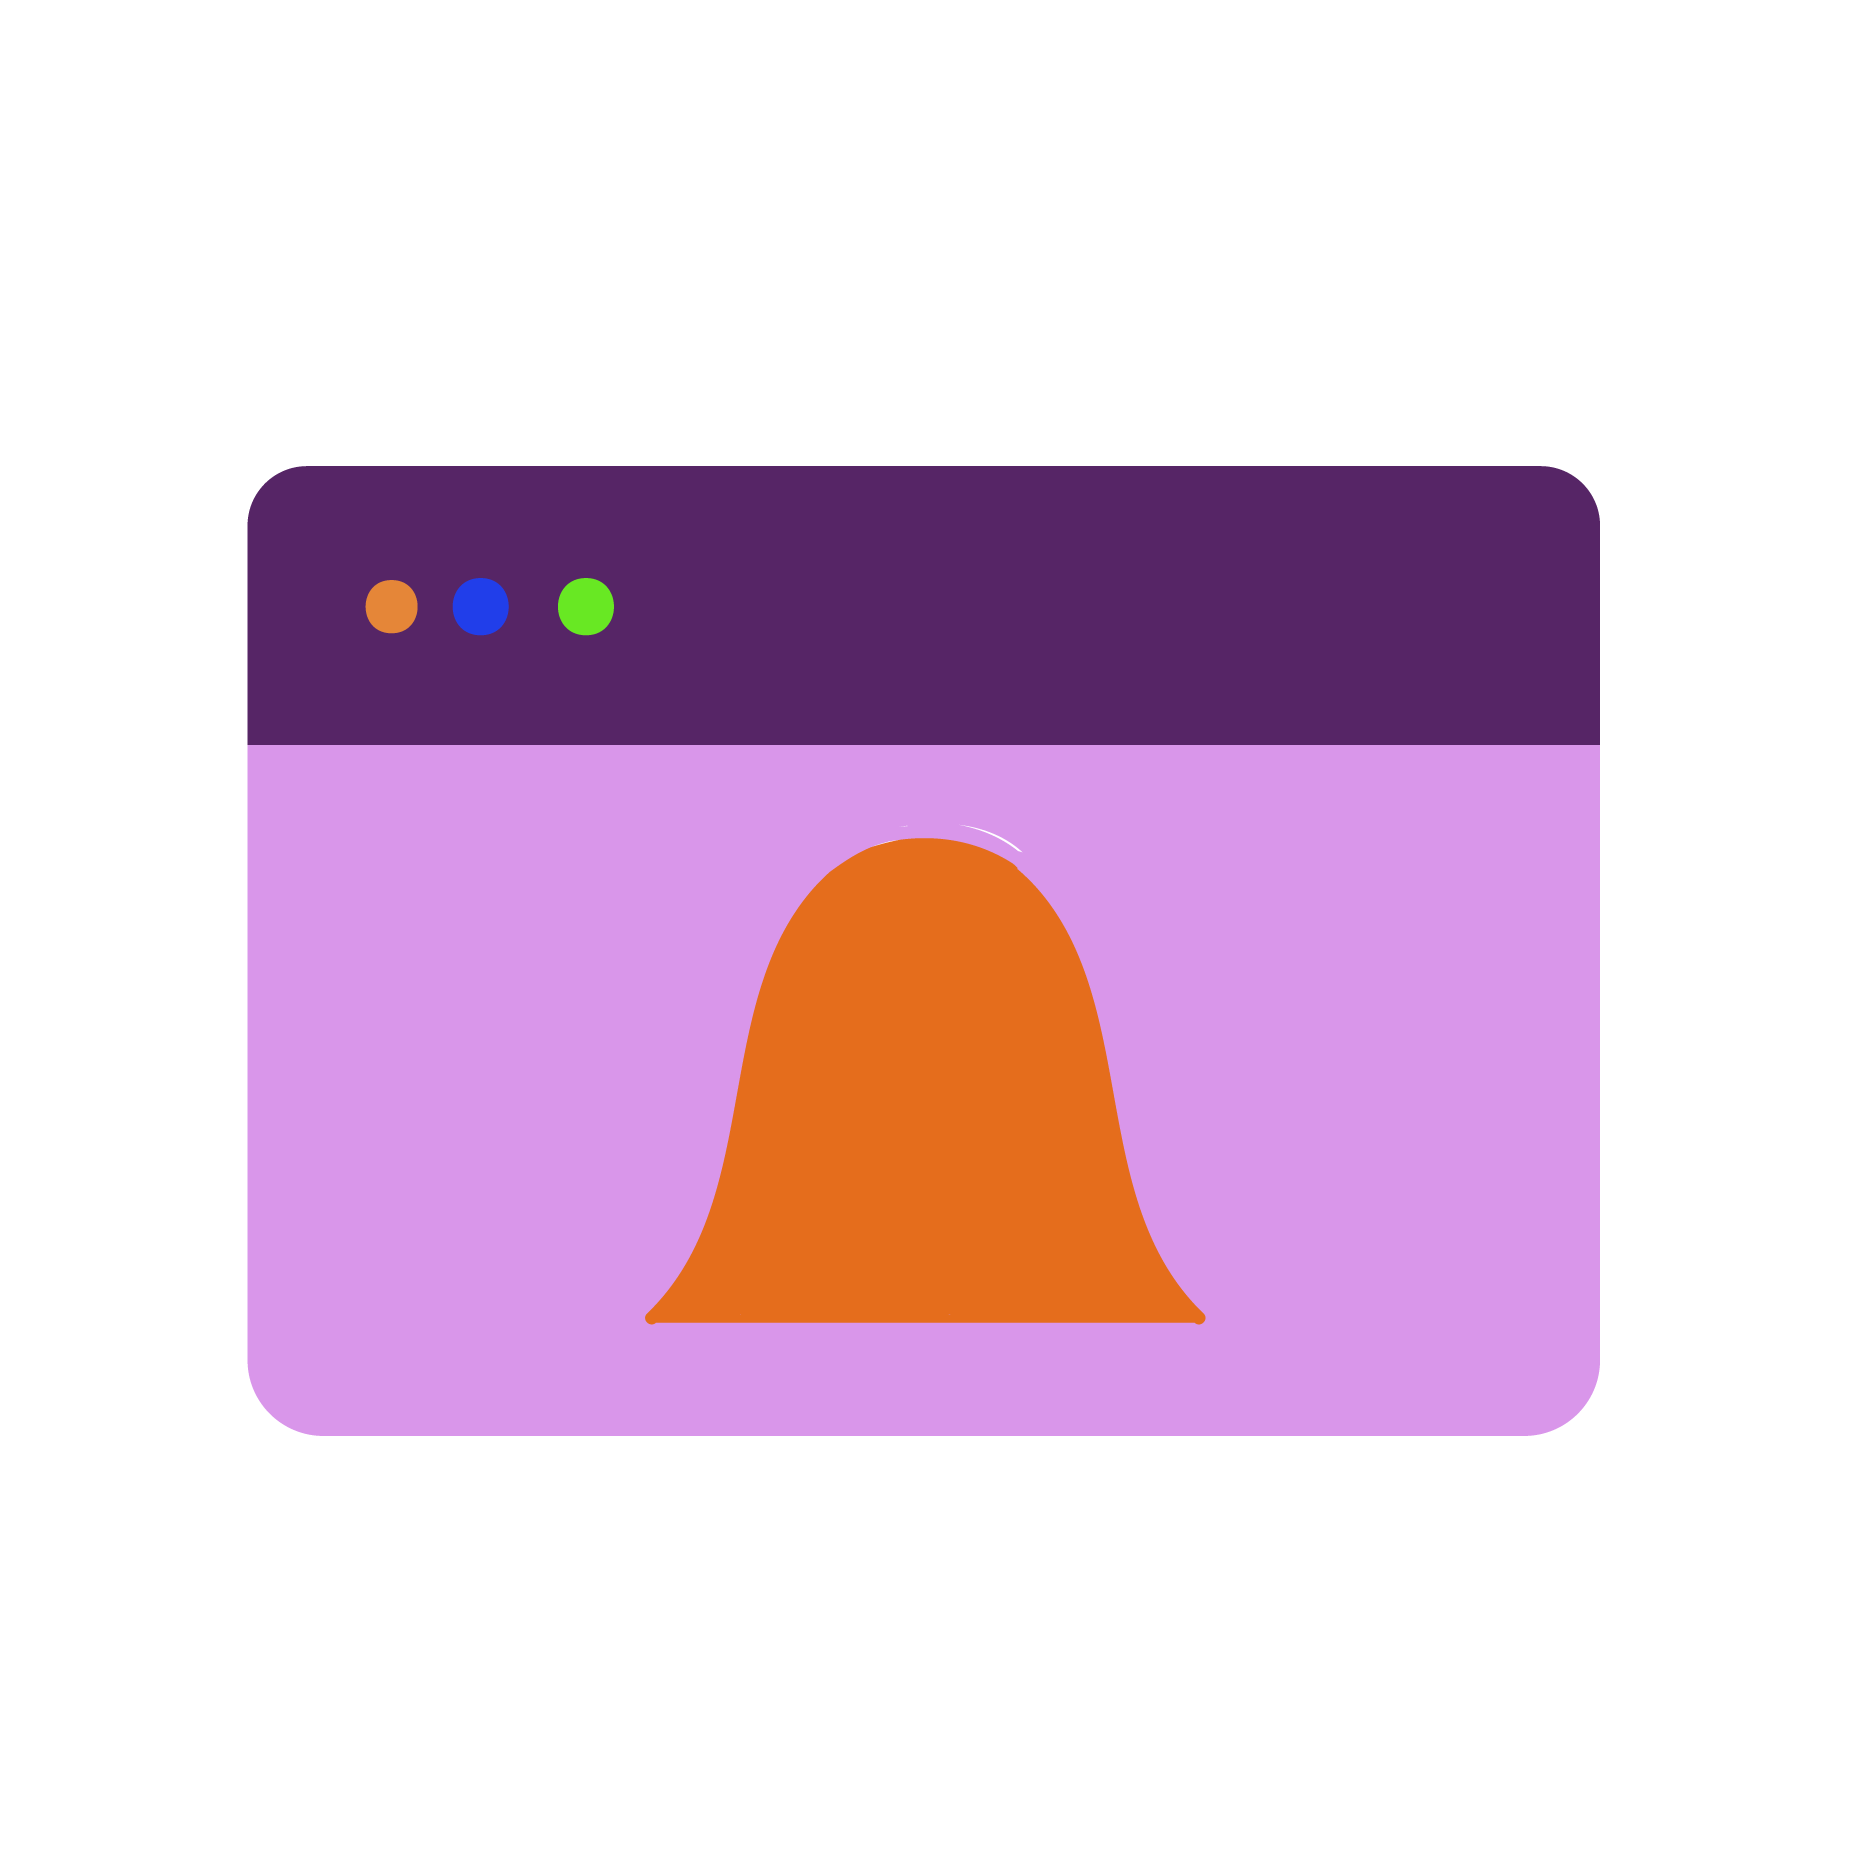
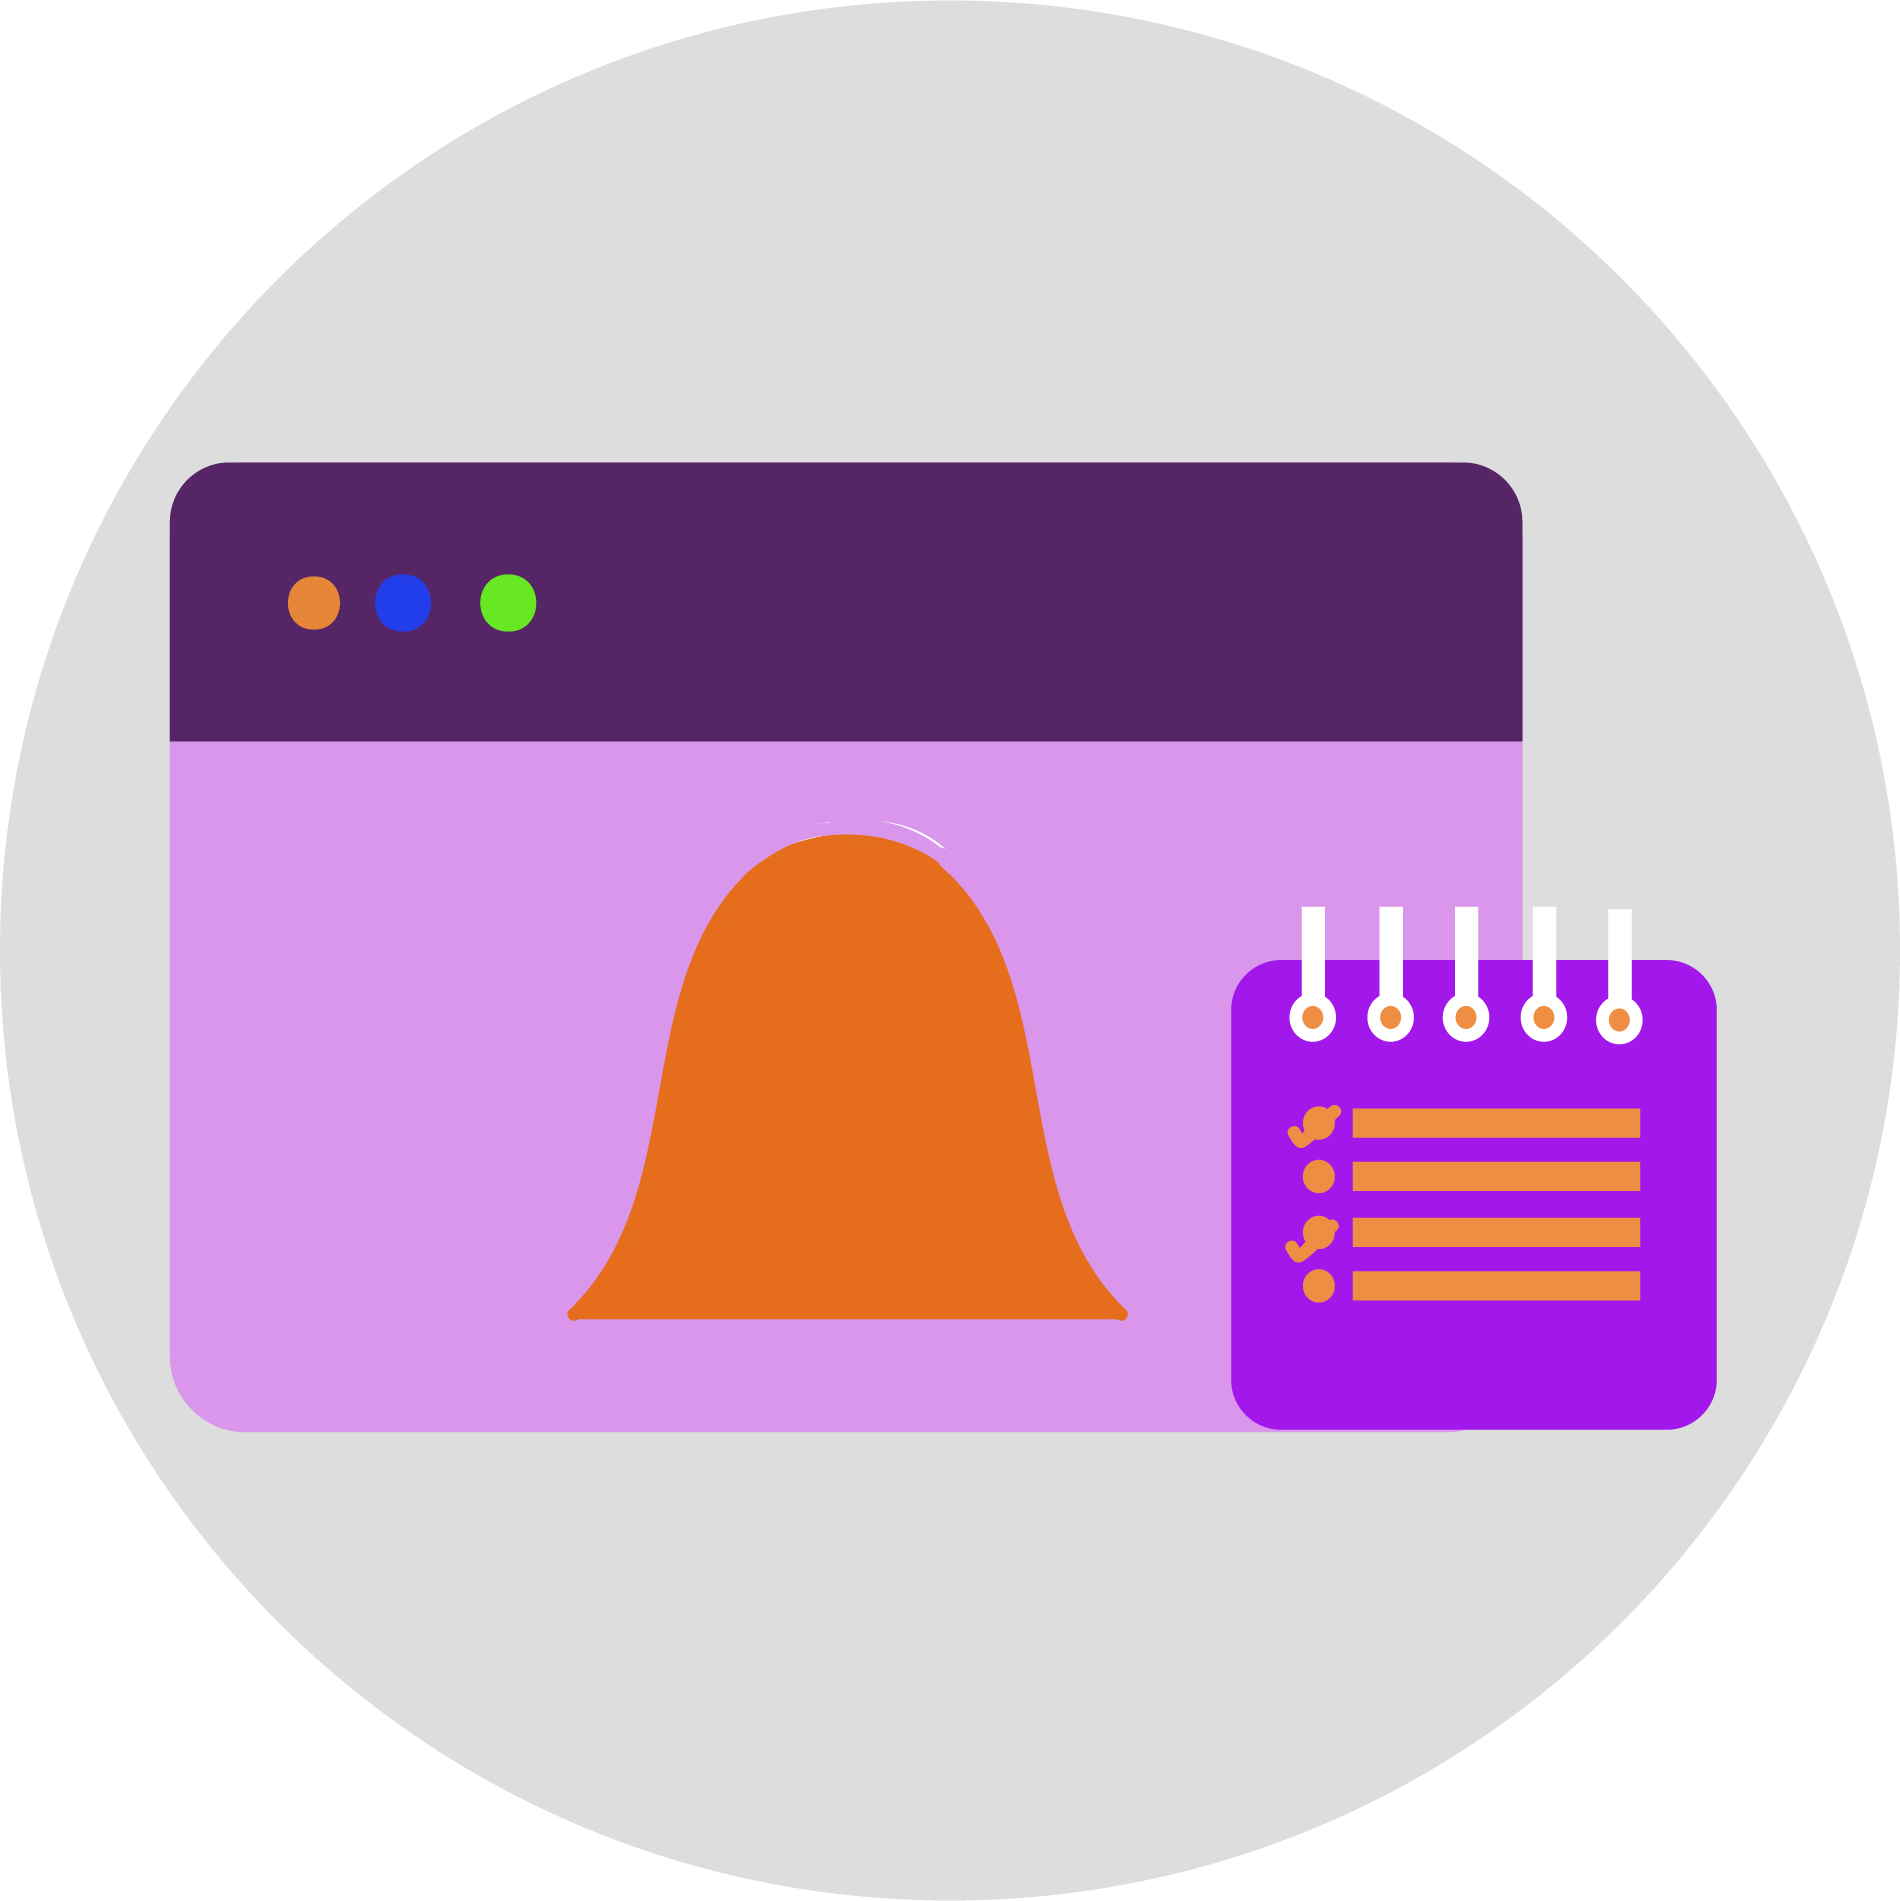
newversion1

diff --git a/css/style.css b/css/style.css
@@ -181,7 +181,7 @@ width: 100%;
   width: 100%;
   float: left;
   height: auto;
-  max-height: 250px;
+  max-height: 300px;
   background-color: #DDDDDD;
 }
 .one-fifth{
@@ -239,26 +239,45 @@ width: 100%;
   background-color: rgb(255, 255, 255);
 }
 .right-wrapper{
-  padding-top: 2%;
-  float: left;
+  float: right;
   width: 100%;
+  max-height: 500px;
   background-color: #C7D7E8;
 }
-article{
+.left-wrapper article{
   float: left;
   margin: 0 auto;
-  width: 50%;
+  width: 35%;
   height: auto;
   max-height: 500px;
+  padding-top:20px;
 }
-aside{
+.left-wrapper aside{
   float: right;
   margin: 0 auto;
-  width: 50%;
+  width: 65%;
   height: auto;
   max-height: 500px;
   padding-top: 20px;
 }
+/*=========*/
+.right-wrapper article{
+  float: left;
+  margin: 0 auto;
+  width: 65%;
+  height: auto;
+  max-height: 500px;
+  padding-top:20px; 
+}
+.right-wrapper aside{
+  float: right;
+  margin: 0 auto;
+  width: 35%;
+  height: auto;
+  max-height: 500px;
+  padding-top: 20px;
+}
+/*============*/
 aside h2{
   font-size: 180%;
   padding-bottom: 0;
@@ -269,7 +288,7 @@ aside p{
   padding-top: 0;
   text-align: center;
   font-family: Poppins-Regular;
-  text-align: left;
+  /*text-align: left;*/
   display: inline;
 }
 aside i{
@@ -285,23 +304,99 @@ article p{
   padding-top: 0;
   text-align: center;
   font-family: Poppins-Regular;
-  text-align: left;
+  /*text-align: right;*/
   display: inline;
 }
 article i{
   color: purple;
+  padding-left: 10%;
 }
-.index-pat-card{
+.index-pat-card1{
   width: 100%;
   height: auto;
-  max-width: 1000px;
+  max-width: 400px;
   padding: 10%;
-  padding-top: 15%;
+  padding-top: 17%;
   padding-left: 15%;
+  float: left;
 }
-.index-pat-text{
-  padding: 25px;
-  padding-left: 15%;
+.index-pat-card2{
+  /*width: 100%;
+  height: auto;*/
+  /*padding: 10%;*/
+  padding-top: 5%;
+  padding-right: 20%;
+  padding-bottom:10%;
+  max-width: 50%;
+  display: inline;
+}
+.index-pat-text1{
+  display: inline;
+}
+.index-pat-text2{
+  /*float: left;*/
+  float:right;
+}
+
+/*=============*/
+.app-div{
+  width: 100%;
+  max-height: 500px;
+  background-color: #C7D7E8;
+  float: left;
+  padding-top:20px;
+}
+.left-half{
+  width: 45%;
+  float: left;
+}
+.left-half h2{
+  font-size:150%;
+}
+.right-half{
+  width:55%;
+  float: right;
+  padding-left: 10%;
+}
+.upper{
+  width:100%;
+  height:50%;
+  /*padding-left: 10%;*/
+}
+.upper img{
+  width:55%;
+  height: auto;
+  padding-bottom: 0;
+}
+.round-img{
+  width: 130px;
+  height: 130px;
+  border-radius: 100px;
+  background-color: rgb(255, 255, 255);
+  display: flex;
+  justify-content: center;
+  align-items: center;
+}
+#upleft{
+  float: left;
+  margin-right: 5%;
+}
+#upright{
+}
+#dnleft{
+  float: left;
+  margin-right: 5%;
+}
+#dnright{
+}
+.lower{
+  width: 100%;
+  height:50%;
+}
+.lower img{
+  width:55%;
+  height: auto;
+  padding-bottom: 0;
 }
 /*==============================================*/
 .faq{
@@ -431,6 +526,9 @@ padding-top: 1%;
     font-size: 90%;
     padding-bottom: 2px;
   }
+  .index-pat-card2{
+    width: 200px;
+  }
   aside h2{
     font-size: 140%;
   }
@@ -444,7 +542,27 @@ padding-top: 1%;
     font-size: 100%;
   }
 }
-@media screen and (max-width:550px){
+@media screen and (max-width:660px){
+  .index-pat-card2{
+    width: 150px;
+  }
+  aside h2{
+    font-size: 130%;
+  }
+  aside p{
+    font-size: 90%;
+  }
+  article h2{
+    font-size: 130%;
+  }
+  article p{
+    font-size: 90%;
+  }
+  article i{
+    padding-left: 9%;
+  }
+}
+@media screen and (max-width:555px){
   #menu-icon{
     width:25px;
     height:25px;
@@ -460,5 +578,11 @@ padding-top: 1%;
   }
   article p{
     font-size: 80%;
+  }
+  .index-pat-card2{
+    width: 100px;
+  }
+  article i{
+    padding-left: 7%;
   }
 }

diff --git a/index.html b/index.html
@@ -63,32 +63,31 @@
 <div class="patient-body">
   <div class="left-wrapper">
     <article id="profbuild">
-      <img src="img/profbuild.png" class="index-pat-card">
+      <img src="img/profbuild.png" class="index-pat-card1">
     </article>
-    <aside id="profbuild">
+    <aside id="profbuild" class="index-pat-text1">
       <h2>Manage profile</h2>
-      <p>Register for a patient account</p><br>
       <i class="fa fa-check"></i><p>Access all the services</p><br>
       <i class="fa fa-check"></i><p>Add personal details</p><br>
       <i class="fa fa-check"></i><p>Track treatment progress</p>
     </aside>
   </div>
   <div class="right-wrapper">
-    <article id="searchdoc" class="index-pat-text">
+    <article id="searchdoc" class="index-pat-text2">
       <h2>Search doctor</h2>
       <i class="fa fa-check"></i><p>Search doctor near your location</p><br>
       <i class="fa fa-check"></i><p>Find the right doctor</p><br>
       <i class="fa fa-check"></i><p>Get appointment</p><br>
     </article>
     <aside id="searchdoc">
-    <img src="#" class="index-pat-card">
+    <img src="img/dctrsearch.png" class="index-pat-card2">
     </aside>
   </div>
   <div class="left-wrapper">
     <article id="checksymp">
-      <img src="#" class="index-pat-card">
+      <img src="#" class="index-pat-card1">
     </article>
-    <aside id="checksymp">
+    <aside id="checksymp" class="index-pat-text1">
       <h2>Check symptoms</h2>
       <i class="fa fa-check"></i><p>Identify common health problems</p><br>
       <i class="fa fa-check"></i><p>Quick suggestion</p><br>
@@ -96,27 +95,58 @@
     </aside>
   </div>
   <div class="right-wrapper">
-    <article id="prescription" class="index-pat-text">
+    <article id="prescription" class="index-pat-text2">
       <h2>Set reminder</h2>
       <i class="fa fa-check"></i><p>Set reminder for medication</p><br>
       <i class="fa fa-check"></i><p>Multiple reminder</p><br>
       <i class="fa fa-check"></i><p>Custom Notification</p><br>
     </article>
     <aside id="prescription">
-    <img src="#" class="index-pat-card">
+    <img src="img/reminder.png" style="width:100%" class="index-pat-card2">
     </aside>
   </div>
   <div class="left-wrapper">
     <article id="readmed">
-      <img src="#" class="index-pat-card">
+      <img src="img/medicine1.png" style="width:70%" class="index-pat-card1">
     </article>
-    <aside id="checksymp">
+    <aside id="checksymp" class="index-pat-text1">
       <h2>Read about medicines</h2>
       <i class="fa fa-check"></i><p>Medicine composition</p><br>
       <i class="fa fa-check"></i><p>Generic name</p><br>
       <i class="fa fa-check"></i><p>Other details</p>
     </aside>
   </div>
+</div>
+<div class="app-div">
+  <article class="left-half">
+    <h2>Download our mobile app</h2>
+    <img src="">
+  </article>
+  <aside class="right-half">
+    <section class="upper">
+      <div class="round-img" id="upleft">
+        <img src="img/reminder-mob.png">
+      </div>
+      <div class="round-img" id="upright">
+        <img src="img/ocr-mob.png">
+      </div>
+      <p>test this portion</p>
+    </section>
+  <section class="lower">
+      <div class="round-img" id="dnleft">
+        <img src="img/reminder-mob.png">
+      </div>
+      <div class="round-img" id="dnright">
+        <img src="img/ocr-mob.png">
+      </div>
+    <p>This is down</p>
+  </section>
+  </aside>
+</div>
+<div class="pat-banner">
+  <a href="#" style="text-decoration:none"><div id="patient-banner">
+  <p>For Doctors</p>
+  </div></a>
 </div>
 <!--
 <div id="patient-banner">
